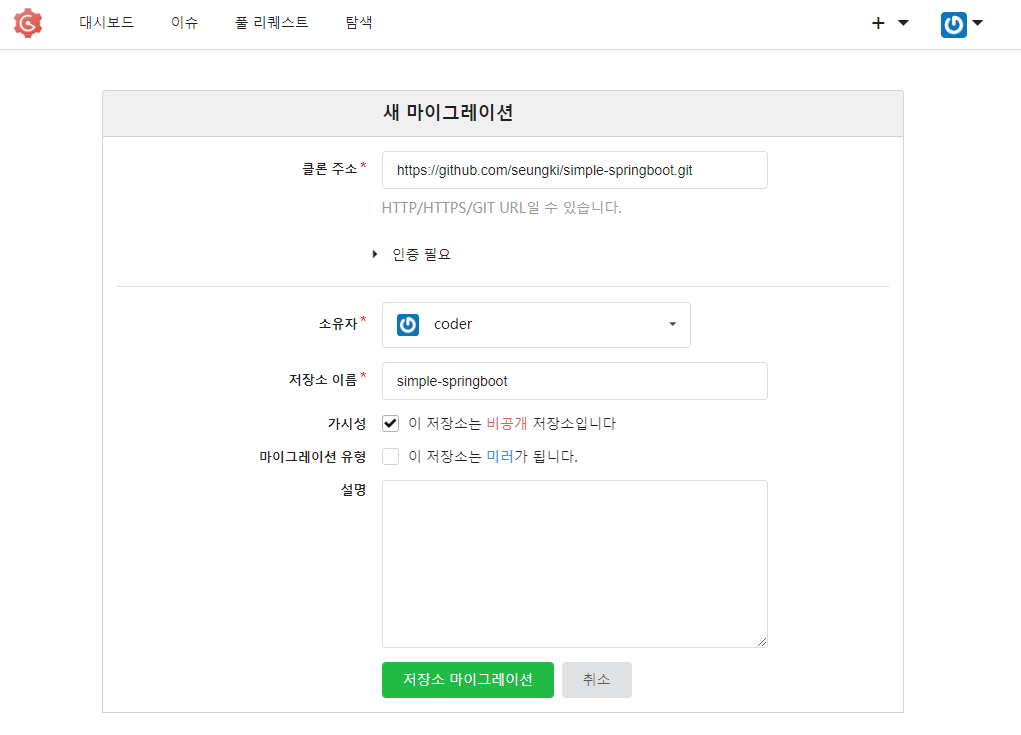
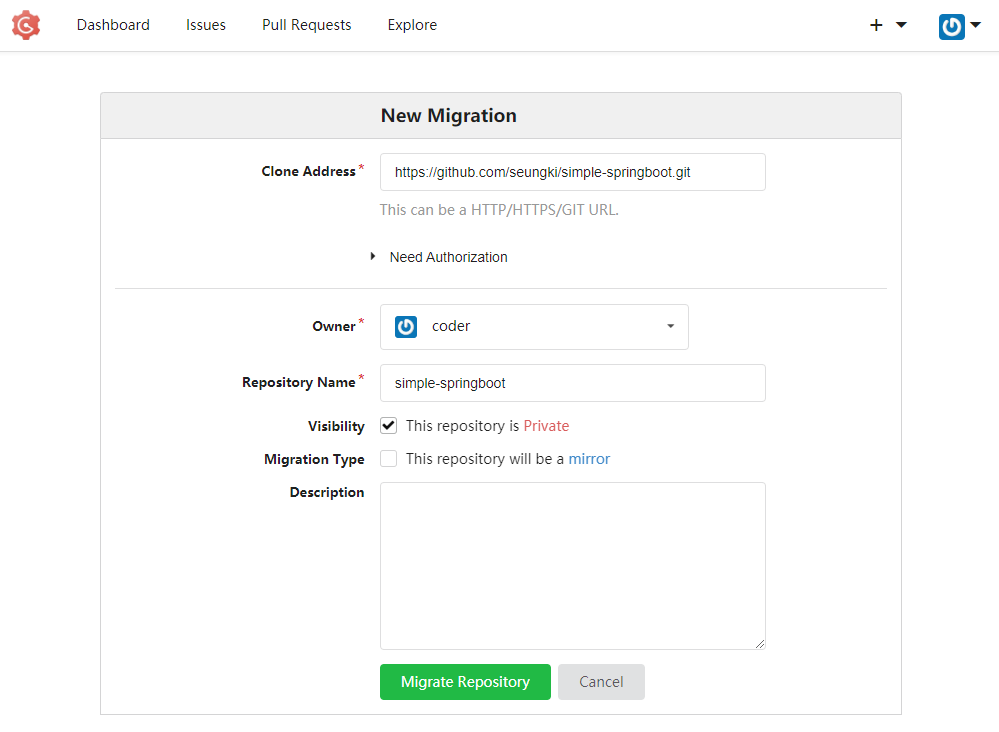
Remove korean.

diff --git a/README.md b/README.md
@@ -1,7 +1,7 @@
 # CI/CD Persistent - OpenShift Container Platform 4.3
   ref : https://github.com/siamaksade/openshift-cd-demo/
 
-  설치되는 항목.
+  Install items.
   <table>
     <tbody>
     <tr>
@@ -35,14 +35,14 @@
   
   ## 0. Prepare CI/CD template YAML file download
   ```shell
-  # git clone
+  # Clone git to your installation directory
   git clone https://github.com/seungki/ocp4-cicd-template.git
   ```
 
-  ## 1. CI/CD Project 생성
+  ## 1. CI/CD Project
 	
   ```shell
-  # Project 생성
+  # Create Project
   PROJECT_NAME=cicd-test
   oc new-project $PROJECT_NAME --display-name="CI/CD"
   oc project $PROJECT_NAME
@@ -60,28 +60,28 @@
 
   ## 2. Jenkins Installation(persistent)
 	
-  2-1. [Manually] Jenkins PersistentVolume 생성을 위한 준비작업 (jenkins data , maven repository)
+  2-1. [Manually] Jenkins PersistentVolume  (jenkins data , maven repository)
   
   ```shell
-  # data directory 생성.
+  # Create data directory.
   mkdir -m 777 -p /shared/$PROJECT_NAME/jenkins-data
 
-  # maven repository directory 생성.
+  # Create maven repository directory.
   mkdir -m 777 -p /shared/$PROJECT_NAME/jenkins-maven-repository
 
-  # /etc/exports 에 추가
+  # Add to /etc/exports 
   /shared/$PROJECT_NAME/jenkins-data 192.168.138.0/24(rw,sync,no_wdelay,no_root_squash,insecure)
   /shared/$PROJECT_NAME/jenkins-maven-repository 192.168.138.0/24(rw,sync,no_wdelay,no_root_squash,insecure)
 
-  # exports 적용
+  # apply exports 
   exportfs -r
   ```
   2-2. Jenkins Install.
   ```shell
-  # [참고]Jenkins persistent openshift image 로 설치.
+  # [Ref.]Install Jenkins persistent from openshift image .
   # oc new-app jenkins-persistent -n $PROJECT_NAME
 
-  # Jenkins persistent template 으로 설치.
+  # Jenkins persistent template .
   PERSISTENT_VOLUME_IP=$(hostname -I | awk '{print $1}')
   oc new-app -f ./yaml/jenkins-persistent-template.yaml \
     --param=PROJECT_NAME=$PROJECT_NAME \
@@ -102,21 +102,21 @@
 	
   ## 3. GOGS Installation(persistent)
 
-  3-1. [Manually] Gogs PersistentVolume 생성을 위한 준비작업 (gogs data , gogs postgresql)
-  - ※ gogs 설치 후 volume mount 실패시 directory nfsnobody:nfsnobody 로 owner 변경.
+  3-1. [Manually] Gogs PersistentVolume (gogs data , gogs postgresql)
+  - ※ gogs volume mount fail : directory owner nfsnobody:nfsnobody .
   
   ```shell
-  # data directory 생성.
+  # Create data directory.
   mkdir -m 777 -p /shared/$PROJECT_NAME/gogs-data
 
-  # postgresql directory 생성.
+  # Create postgresql directory.
   mkdir -m 777 -p /shared/$PROJECT_NAME/gogs-postgres-data
 
-  # /etc/exports 에 추가
+  # Add to /etc/exports
   /shared/$PROJECT_NAME/gogs-data 192.168.138.0/24(rw,sync,no_wdelay,no_root_squash,insecure)
   /shared/$PROJECT_NAME/gogs-postgres-data 192.168.138.0/24(rw,sync,no_wdelay,no_root_squash,insecure)
 
-  # exports 적용
+  # exports apply
   exportfs -r	
   ```
 
@@ -128,7 +128,7 @@
   # Get IP Address
   PERSISTENT_VOLUME_IP=$(hostname -I | awk '{print $1}')
 	
-  # GOGS persistent 설치.
+  # GOGS persistent template.
   oc new-app -f ./yaml/gogs-persistent-template.yaml \
     --param=PROJECT_NAME=$PROJECT_NAME \
     --param=GOGS_VERSION=0.11.34 \
@@ -152,20 +152,20 @@
 
   ## 4. Sonarqube Installation(persistent)
 	
-  4-1. [Manually] Sonarqube PersistentVolume 생성을 위한 준비작업 (sonarqube data, sonarqube postgresql)
+  4-1. [Manually] Sonarqube PersistentVolume (sonarqube data, sonarqube postgresql)
   
   ```shell
-  # data directory 생성.
+  # Create data directory.
   mkdir -m 777 -p /shared/$PROJECT_NAME/sonarqube-data
 
-  # postgresql directory 생성.
+  # Create postgresql directory.
   mkdir -m 777 -p /shared/$PROJECT_NAME/sonarqube-postgres-data
 
-  # /etc/exports 에 추가
+  # Add to /etc/exports
   /shared/$PROJECT_NAME/sonarqube-data 192.168.138.0/24(rw,sync,no_wdelay,no_root_squash,insecure)
   /shared/$PROJECT_NAME/sonarqube-postgres-data 192.168.138.0/24(rw,sync,no_wdelay,no_root_squash,insecure)
 
-  # exports 적용
+  # exports apply
   exportfs -r	
   ```
 
@@ -174,7 +174,7 @@
   # Get IP Address
   PERSISTENT_VOLUME_IP=$(hostname -I | awk '{print $1}')
 	
-  # Sonarqube persistent 설치.
+  # Sonarqube persistent template.
   oc new-app -f ./yaml/sonarqube-persistent-template.yaml \
     --param=PROJECT_NAME=$PROJECT_NAME \
     --param=SONARQUBE_MEMORY_LIMIT=2Gi \
@@ -195,17 +195,16 @@
 	
   ## 5. Nexus Installation(persistent)
 
-  5-1. [Manually] Nexus PersistentVolume 생성을 위한 준비작업 
-  - Nexus data 를 위한 1개의 PV 생성
+  5-1. [Manually] Nexus PersistentVolume (nexus data)
   
   ```shell
-  # data directory 생성.
+  # Create data directory.
   mkdir -m 777 -p /shared/$PROJECT_NAME/nexus-data
 
-  # /etc/exports 에 추가
+  # Add to /etc/exports 
   /shared/$PROJECT_NAME/nexus-data 192.168.138.0/24(rw,sync,no_wdelay,no_root_squash,insecure)
 
-  # exports 적용
+  # exports apply
   exportfs -r
   ```
 
@@ -214,7 +213,7 @@
   # Get IP Address
   PERSISTENT_VOLUME_IP=$(hostname -I | awk '{print $1}')
 	
-  # Nexus persistent 설치.
+  # Nexus persistent template.
   oc new-app -f ./yaml/nexus-persistent-template.yaml \
     --param=PROJECT_NAME=$PROJECT_NAME \
     --param=NEXUS_DATA_DIRECTORY=/shared/$PROJECT_NAME/nexus-data  \
